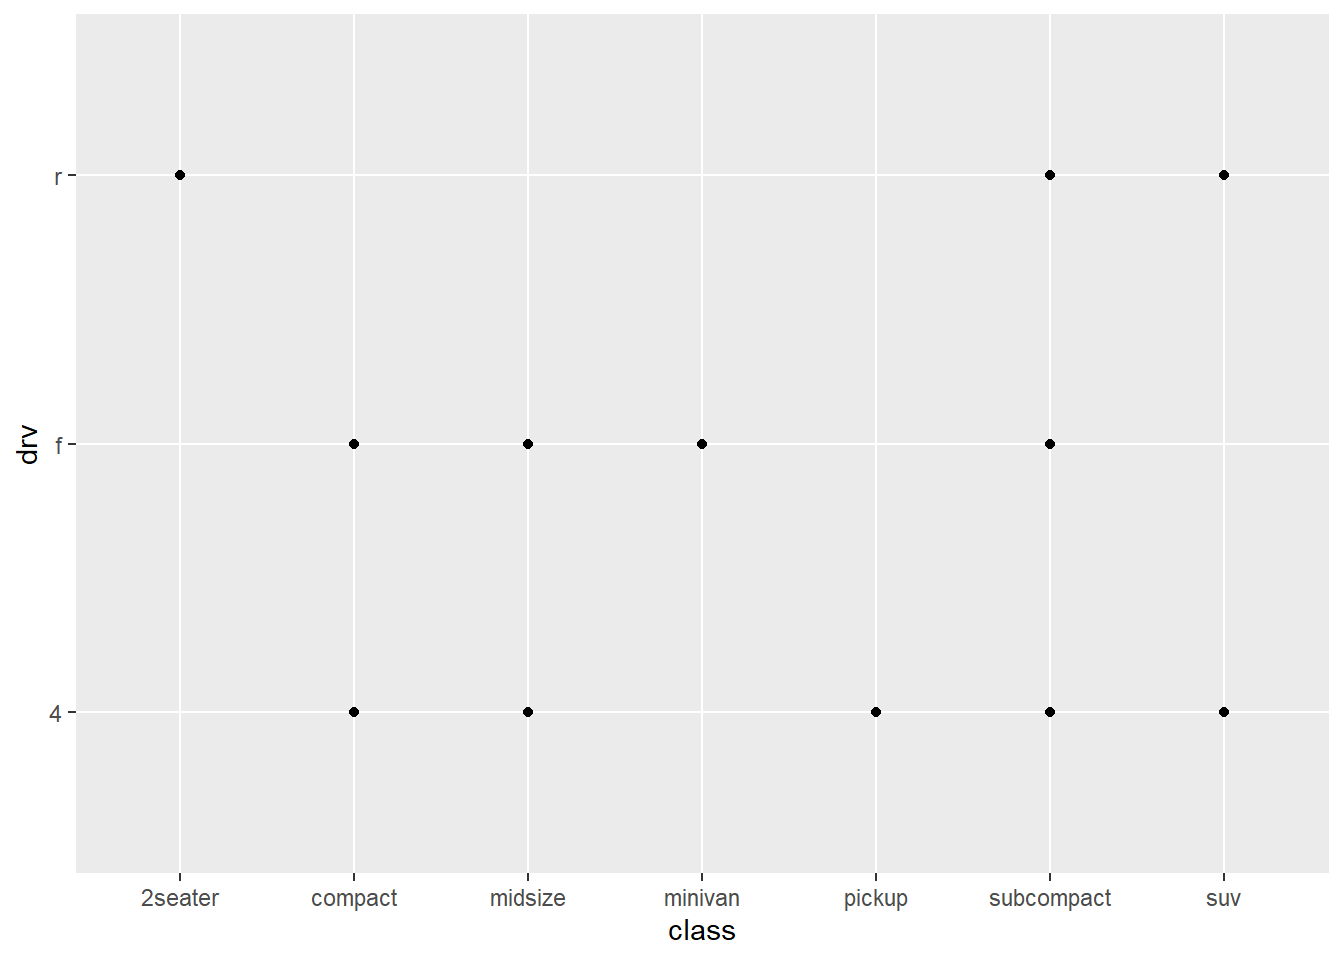
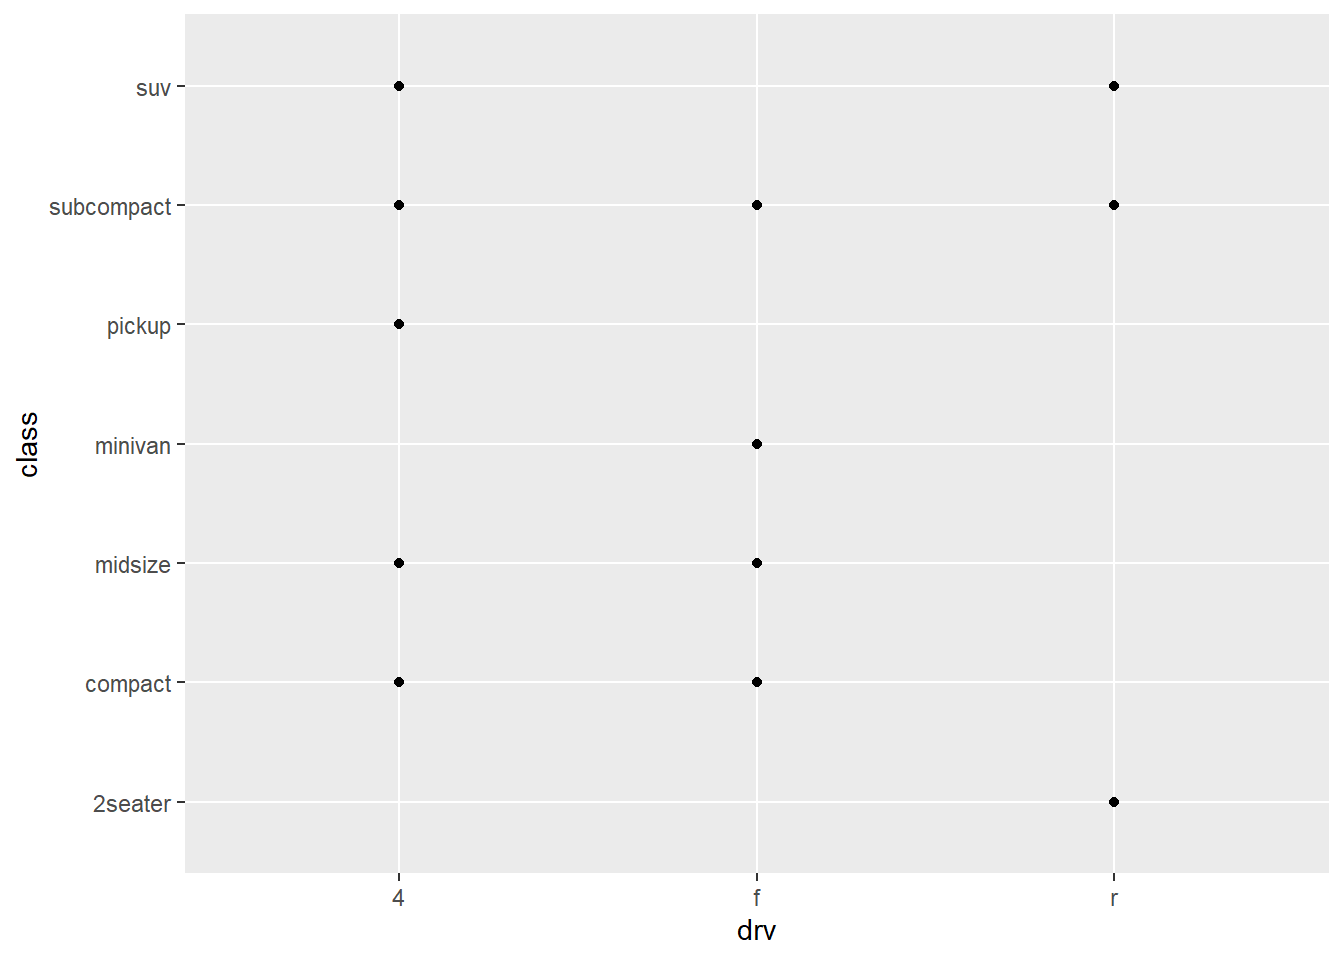
sep28 commit1

diff --git a/docs/Journal.html b/docs/Journal.html
@@ -348,7 +348,7 @@ div.tocify {
 </div>
 
 
-<p>Last compiled: 2021-09-24 16:46:00</p>
+<p>Last compiled: 2021-09-27 17:23:19</p>
 <p><br></p>
 <p>I write and update the solutions everyday. <span style=" font-weight: bold;    color: white !important;border-radius: 4px; padding-right: 4px; padding-left: 4px; background-color: #D05A6E !important;">Please let me know of any typos.</span></p>
 <p><em>For Week 3: read WG chapters 1-3.</em></p>
@@ -395,7 +395,7 @@ ggplot(data = mpg)</code></pre>
 <div id="what-happens-if-you-make-a-scatterplot-of-class-versus-drv" class="section level4">
 <h4>5. What happens if you make a scatterplot of <code>class</code> versus <code>drv</code>?</h4>
 <p>Why is the plot not useful?</p>
-<pre class="r"><code>ggplot(mpg, aes(x = class, y = drv)) +
+<pre class="r"><code>ggplot(mpg, aes(x = drv, y = class)) +
   geom_point()</code></pre>
 <p><img src="Journal_files/figure-html/unnamed-chunk-5-1.png" width="672" /></p>
 <p>A scatter plot is not a useful here because both <code>drv</code> and <code>class</code> are categorical variables. Scatterplots are commonly used to visualize two continuous variables using visual marks mapped to a two-dimensional Cartesian space. Hence, the scatterplot here shows the limitation of managing two categorical variables. This is largely because categorical variables are typically stored as a small number of values. Within the <code>mpg</code> dataset, we can see that <code>class</code> variables holds 7 types of cars, and <code>cyl</code> holds 4 types of cylinders. Therefore, there will only be 21 points mapped on the scatterplot.</p>

diff --git a/docs/Journal2.html b/docs/Journal2.html
@@ -348,7 +348,7 @@ div.tocify {
 </div>
 
 
-<p>Last compiled: 2021-09-24 16:46:02</p>
+<p>Last compiled: 2021-09-27 17:23:23</p>
 <p><br></p>
 <p><em>For Week 4: read WG chapters 4-5.</em></p>
 <p><br> <br></p>
